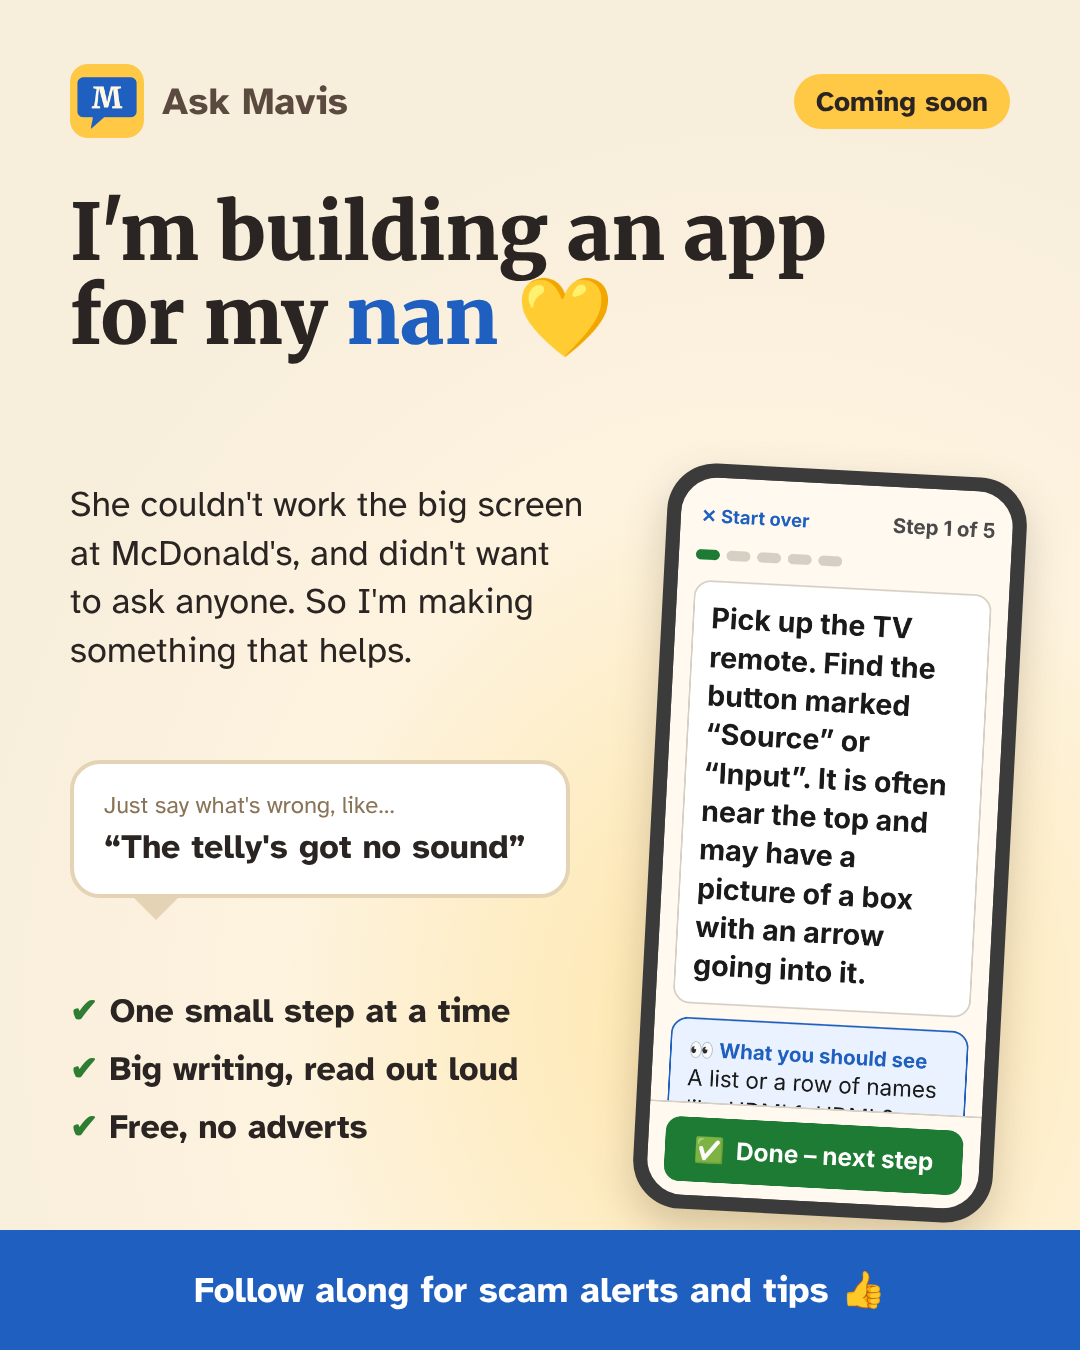
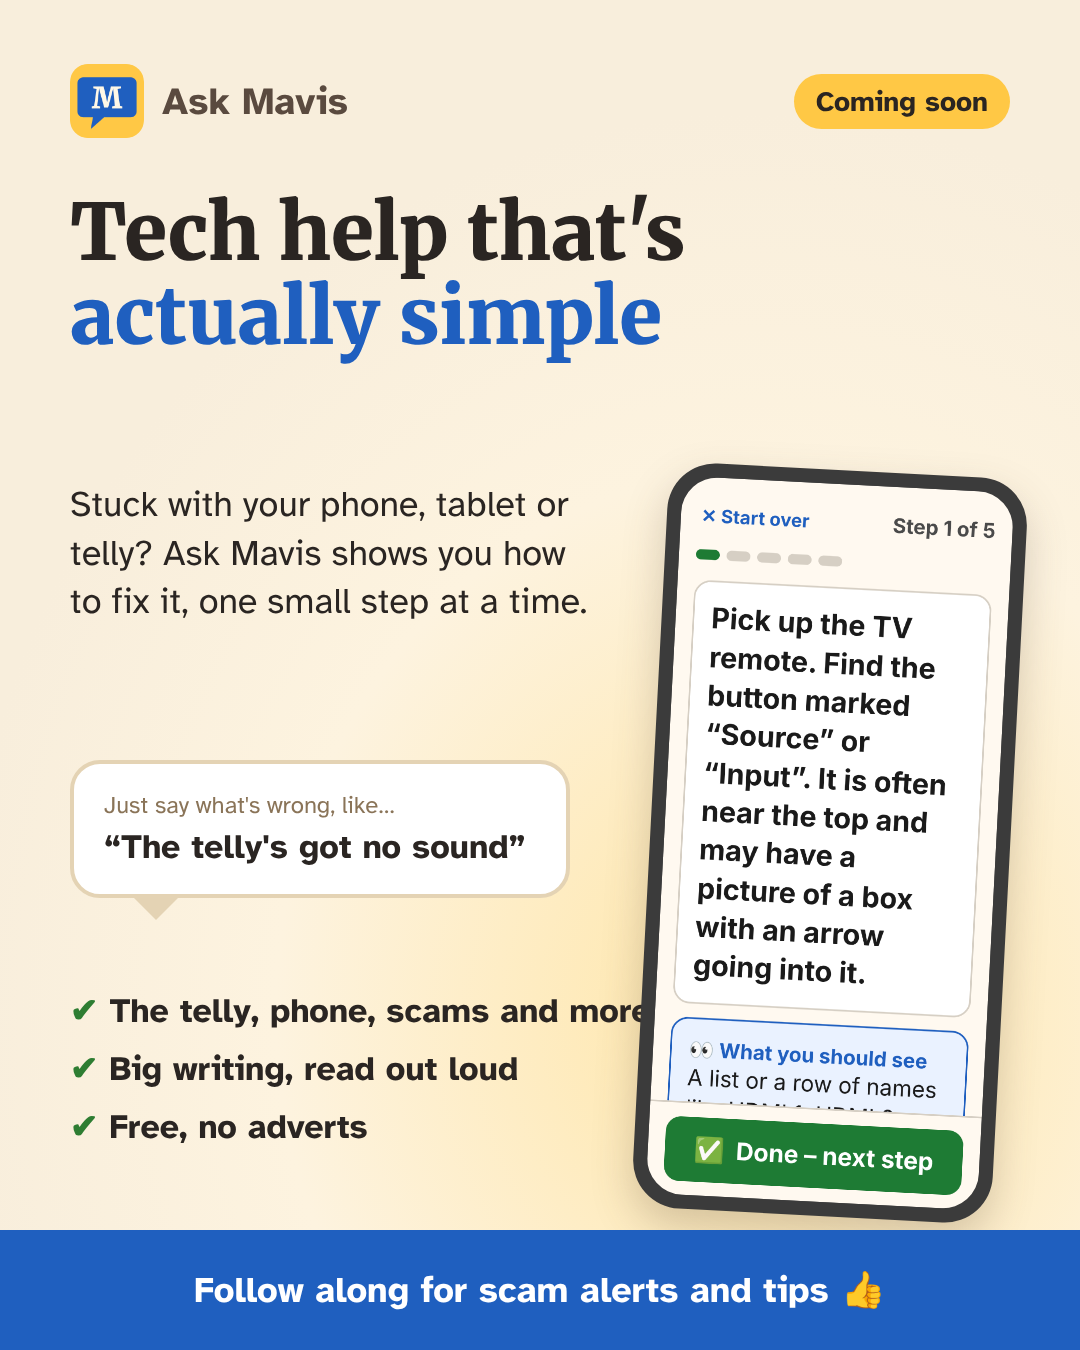
First post graphic: general message instead of a personal story
Claude-Session: https://claude.ai/code/session_01Rq6TRiExn4qsVqqTAS9CFn

Changed region(s): [[0.0611, 0.1244, 0.7639, 0.28], [0.0611, 0.3422, 0.55, 0.4978], [0.0917, 0.7156, 0.5806, 0.7778]]

diff --git a/demo/social/source.html b/demo/social/source.html
@@ -54,10 +54,10 @@ body { font-family: "Atkinson Hyperlegible", Arial, sans-serif; color: #2A2522; 
 
 <section id="post">
   <div class="top"><img src="logo.png" alt="">Ask Mavis<span class="badge">Coming soon</span></div>
-  <h1 class="serif">I'm building an app<br>for my <span class="blue">nan</span> 💛</h1>
-  <p class="lead">She couldn't work the big screen at McDonald's, and didn't want to ask anyone. So I'm making something that helps.</p>
+  <h1 class="serif">Tech help that's<br><span class="blue">actually simple</span></h1>
+  <p class="lead">Stuck with your phone, tablet or telly? Ask Mavis shows you how to fix it, one small step at a time.</p>
   <div class="bubble"><small>Just say what's wrong, like…</small>“The telly's got no sound”</div>
-  <div class="ticks"><span>One small step at a time</span><span>Big writing, read out loud</span><span>Free, no adverts</span></div>
+  <div class="ticks"><span>The telly, phone, scams and more</span><span>Big writing, read out loud</span><span>Free, no adverts</span></div>
   <div class="phone"><img src="tv-step.png" alt=""></div>
   <div class="foot">Follow along for scam alerts and tips<b>👍</b></div>
 </section>
